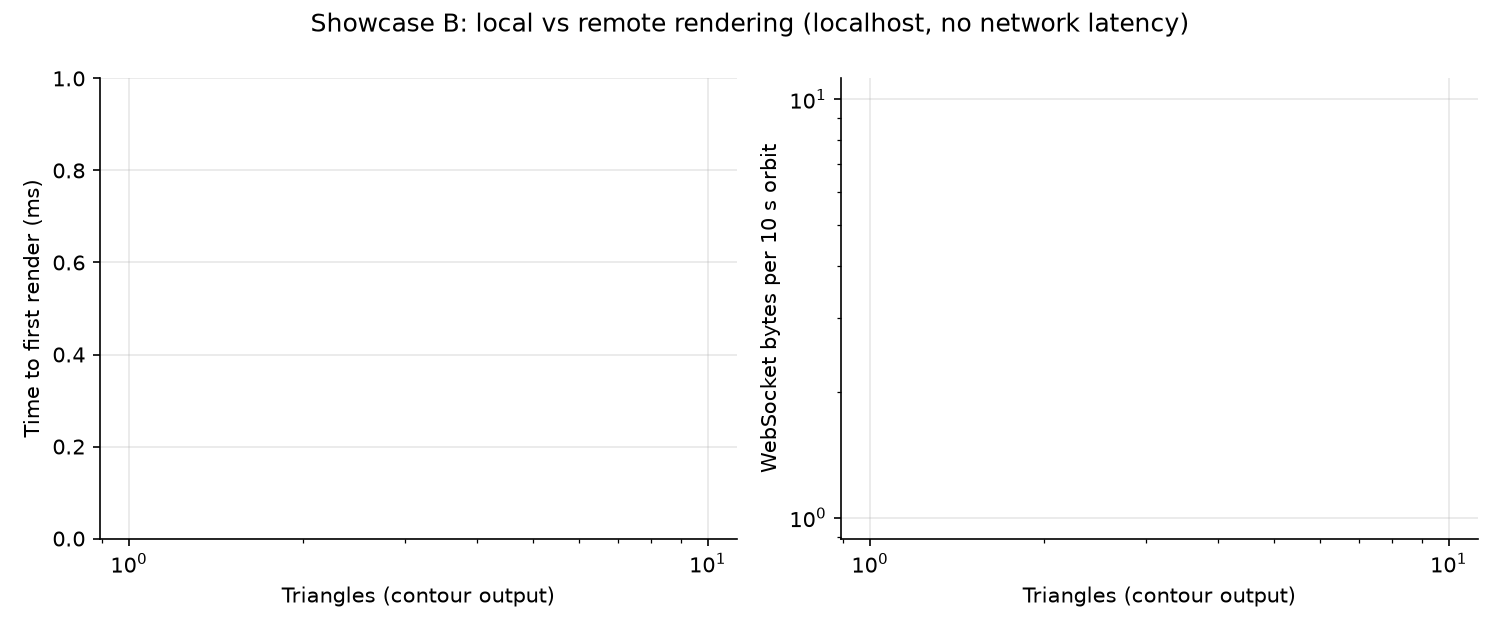
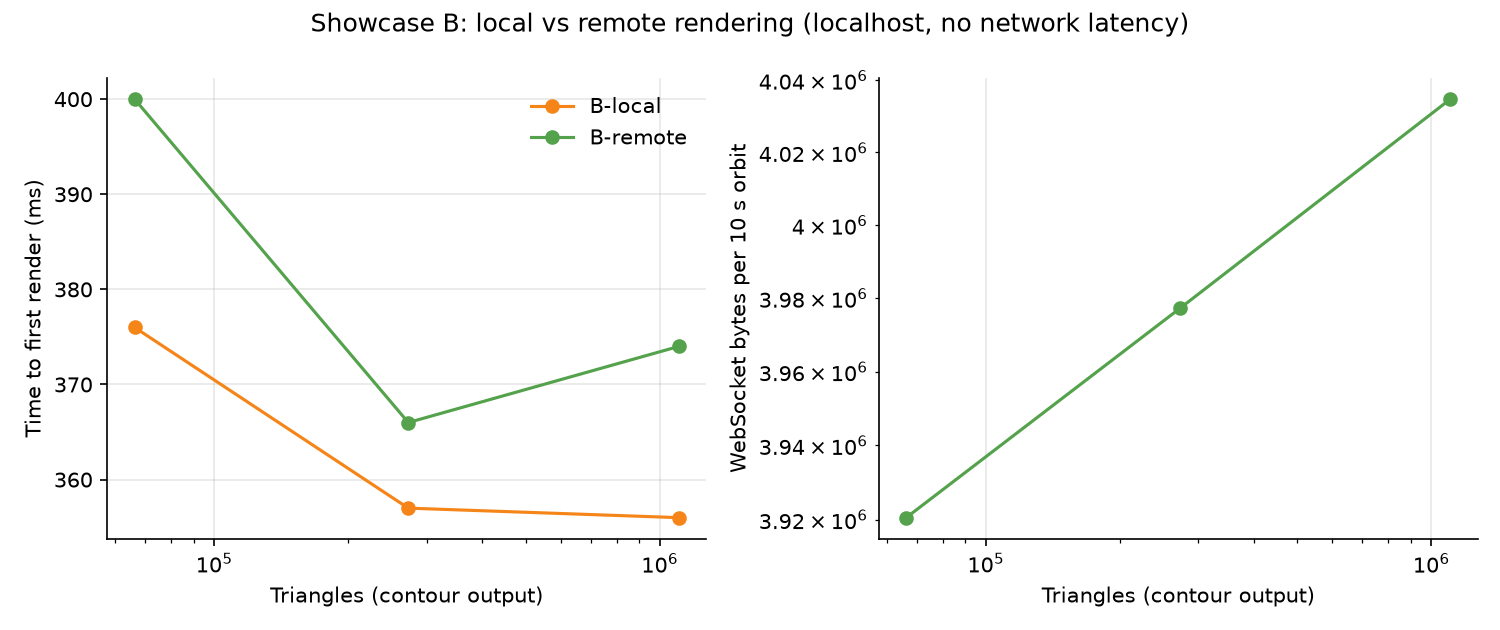
M4: Showcase B benchmark results (18 rows, laptop-a)

diff --git a/report/install_log.md b/report/install_log.md
@@ -28,3 +28,11 @@ Evidence for the report. Failures are recorded as they happened.
 | 2026-10-26 | Showcase A benchmark mode, 3 reps foot_128 (8 frames) in headless Chrome + SwiftShader | ~1.5 min | 40 frames x 3 reps exceeded a 4-min wait under software GL | Logic verified (3 CSV rows, correct schema). Real FPS numbers need a GPU browser (student run) | Linux |
 | 2026-10-26 | `pkill -f` used while shell command line contained the pattern | - | killed my own shell twice | use `fuser -k PORT/tcp` | Linux |
 | 2026-10-26 | **Clean-room test**: `git clone` into a new folder, no venvs or node_modules, `scripts/setup.sh` with `PVPYTHON` set | 2 min 10 s | none | all 9 steps passed (venvs, `npm ci`, 4 downloads + conversion, `check_env` OK in both). Then started `run_a`, `run_b`, `run_b_fallback` (HTTP 200/302/302) and ran Showcase A bench mode with 1 rep (1 CSV row, imported by `add_row.py`, plotted by `plot_results.py`). Done on this Linux laptop with headless Chrome + software GL; Windows scripts untested | Linux |
+
+## 2026-10-26 Showcase B benchmark (laptop-a, scripted puppeteer orbit, 10 s)
+- 18 rows appended via bench/run_all_b.sh (~25 min wall clock incl. server restarts).
+- B-local: 60 fps (display cap) at all sizes, ws_bytes 0 during orbit; geometry 3.0/12.3/49.6 MB (64/128/256).
+- B-remote: ~20 fps at all sizes, ~4 MB ws traffic per 10 s. Flat across sizes => probably limited by trame's update/throttle path or the scripted mouse rate, NOT by render cost. Do not claim a size trend; investigate before reporting.
+- B-remote rep 3 TTFR outliers (2.7-2.9 s) at all three sizes vs ~0.37 s for reps 1-2; cause unknown (server-side warm-up/GC?). Median hides it; mention in report.
+- Server RSS grows with size (709 -> 958 MB local; 732 -> 980 MB remote).
+- auto_b.mjs launches Chrome without the user's Wayland flags; renderer string in CSV is as passed via GPU= env, not verified from the launched browser.

diff --git a/bench/results/figures/results_table.md b/bench/results/figures/results_table.md
@@ -5,5 +5,11 @@
 | A-local | 64 | 3 | 215.5 | 59.9 | 59.5 | 19.6 |  |  |  |  |
 | A-local | 128 | 3 | 107.2 | 59.9 | 59.5 | 21.3 |  |  |  |  |
 | A-local | 256 | 3 | 434.5 | 30.0 | 25.6 | 41.0 |  |  |  |  |
+| B-local | 64 | 3 | 376.0 | 60.0 | 60.0 | 10.4 | 709.3 | 0.0 | 66,260.0 | 2,991.0 |
+| B-local | 128 | 3 | 357.0 | 60.0 | 60.0 | 11.7 | 757.4 | 0.0 | 272,634.0 | 12,279.0 |
+| B-local | 256 | 3 | 356.0 | 60.0 | 60.0 | 11.7 | 958.4 | 0.0 | 1,103,026.0 | 49,615.0 |
+| B-remote | 64 | 3 | 400.0 | 20.0 | 20.0 | 10.5 | 732.0 | 3,920,535.0 | 66,260.0 | 2,991.0 |
+| B-remote | 128 | 3 | 366.0 | 20.0 | 19.0 | 9.9 | 777.8 | 3,977,234.0 | 272,634.0 | 12,279.0 |
+| B-remote | 256 | 3 | 374.0 | 21.0 | 20.0 | 11.2 | 979.5 | 4,034,738.0 | 1,103,026.0 | 49,615.0 |
 
 Validity limits: localhost has almost no network latency (flatters remote rendering); Showcase A renders a volume and B an isosurface, so their FPS values are not comparable.

diff --git a/report/figures/results_table.md b/report/figures/results_table.md
@@ -5,5 +5,11 @@
 | A-local | 64 | 3 | 215.5 | 59.9 | 59.5 | 19.6 |  |  |  |  |
 | A-local | 128 | 3 | 107.2 | 59.9 | 59.5 | 21.3 |  |  |  |  |
 | A-local | 256 | 3 | 434.5 | 30.0 | 25.6 | 41.0 |  |  |  |  |
+| B-local | 64 | 3 | 376.0 | 60.0 | 60.0 | 10.4 | 709.3 | 0.0 | 66,260.0 | 2,991.0 |
+| B-local | 128 | 3 | 357.0 | 60.0 | 60.0 | 11.7 | 757.4 | 0.0 | 272,634.0 | 12,279.0 |
+| B-local | 256 | 3 | 356.0 | 60.0 | 60.0 | 11.7 | 958.4 | 0.0 | 1,103,026.0 | 49,615.0 |
+| B-remote | 64 | 3 | 400.0 | 20.0 | 20.0 | 10.5 | 732.0 | 3,920,535.0 | 66,260.0 | 2,991.0 |
+| B-remote | 128 | 3 | 366.0 | 20.0 | 19.0 | 9.9 | 777.8 | 3,977,234.0 | 272,634.0 | 12,279.0 |
+| B-remote | 256 | 3 | 374.0 | 21.0 | 20.0 | 11.2 | 979.5 | 4,034,738.0 | 1,103,026.0 | 49,615.0 |
 
 Validity limits: localhost has almost no network latency (flatters remote rendering); Showcase A renders a volume and B an isosurface, so their FPS values are not comparable.

diff --git a/docs/progress.md b/docs/progress.md
@@ -7,3 +7,4 @@
 2026-10-26 | M6 | scaffolding DONE (all files in report table exist); figures from benchmark pending M4; references 2 and 3 only partly verified, see references.md | student to review
 2026-10-26 | M4 (A-local) | 9 rows imported (laptop-a, hardware Iris Xe, Chrome 151); 3 stale rows from an earlier test (machine_id=laptop) excluded | B-local and B-remote runs still to do
 2026-10-26 | M4 tools | added bench/run_all_b.sh (automates all 18 B runs), ws_bytes_setup recorded in notes
+- M4: Showcase B benchmark on laptop-a (Iris Xe, 18 rows: B-local/B-remote x 64/128/256 x 3 reps) recorded; remote FPS flat ~20 across sizes (likely trame update throttle, not render cost) - see install_log.
